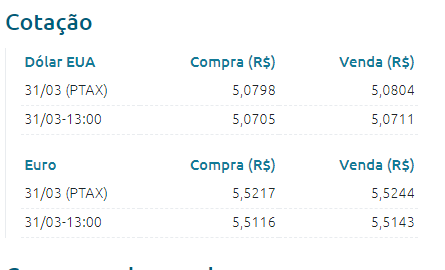
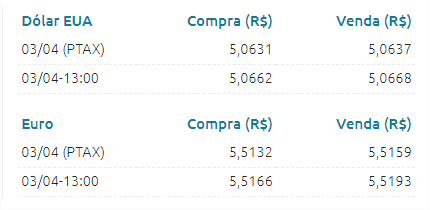
Atualizado 06/04/23

diff --git a/index.css b/index.css
@@ -65,20 +65,11 @@ header li:hover{
 
 .layout1{
     text-align: center;
-    margin-top: 5mm;
-
+    font-family: calibri, Helvetica, sans-serif;   
+    color: rgb(50, 91, 180);
+    margin-top: 1.5mm;
+    font-weight: bold;
 }
-
-
-
-
-
-
-
-
-
-
-
 
 
 
@@ -93,7 +84,7 @@ header li:hover{
  
 .layout2{
     height: 15cm;
-   
+ 
     display: flex;
 }
 
@@ -102,20 +93,75 @@ header li:hover{
 .q1{
     height: 280px;
     width: 450px;
-    background-color: white;
+    text-align: center;
+    background-color: rgb(255, 255, 255);
     margin: 1cm 0 0 1cm;
 }
+
+
+
+
+
+.layout3{
+    height: 15cm;
+ 
+    display: flex;
+}
+
+/*Quadro cotação*/
+
+.q1{
+    height: 280px;
+    width: 450px;
+    text-align: center;
+    background-color: rgb(255, 255, 255);
+    margin: 1cm 0 0 1cm;
+    margin-left: 0.2cm;
+}
+
+
+
+
+/*COMUNICADOS*/
+
+.q4{
+    height: 13cm;
+    width: 10.5cm;
+    background-color: white;
+    margin: 1cm 0 0 1cm;
+    margin-left: 0.2cm;
+
+}
+
+h3#txt_q4{
+color: rgb(97, 97, 97);
+    text-align: center;
+    margin-top: 10px;
+}
+
+/*Dados COMUNICADOS*/
+
+.info_aniver{
+    height: 11cm;
+    font-size: 15px;
+}
+
+.info_aniver p{
+        margin: 0 0 0 10px;
+    }
+
+
 
 
 
 /*Quadro de aniversáriantes*/
 
 .q2{
-    height: 7cm;
-    width: 10cm;
+    height: 13cm;
+    width: 10.5cm;
     background-color: white;
     margin: 1cm 0 0 1cm;
-    margin-left: 9cm;
+    margin-left: 0.2cm;
 
 }
 
@@ -128,8 +174,8 @@ color: rgb(97, 97, 97);
 /*Dados dos aniversáriantes*/
 
 .info_aniver{
-    height: 5.3cm;
-    font-size: 12px;
+    height: 11cm;
+    font-size: 15px;
 }
 
 .info_aniver p{

diff --git a/index.html b/index.html
@@ -46,21 +46,10 @@
 
 
 
-
-
-
-
-
-
-
-
-
-
-
     <div class="layout2">
         <div class="q1">
 
-     <h3 style="color: rgb(97, 97, 97);">NOTÍCIAS</h3>
+     <h3 style="color: rgb(11, 76, 129);">Cotação do Dia</h3>
 
      <img src="img/cotacao.png" alt="cotação">
 
@@ -70,18 +59,36 @@
         
 
 
+        <div class="layout3">
+            <div class="q1">
+    
+         <h3 style="color: rgb(11, 76, 129);">    </h3>
+    
+         <img src="img/cotacao1.png" alt="cotação1">
+    
+    
+                
+            </div>
+
+
+
+
+
 
         <div class="q2">
         
-       
-            <h3 id="txt_q2">ANIVERSÁRIOS  </h3>
+
+            <h3 id="txt_q2">Aniversariantes 05/04  </h3>
 
 
             <div class="info_aniver">
-            <p> <br> <br> 06/05 - Josias Eli da Silva Spironello </p>
-            
-            <p>  <br> 03/05 - Débora Cristina Miguel da Silva Spironello </p>
+            <p> <br> <br> Mauricio Soares de Souza </p> 
+            <p> Auxiliar de Irrigação / Bandeirantes </p> 
 
+        
+   
+         
+            
 </div>
 
 
